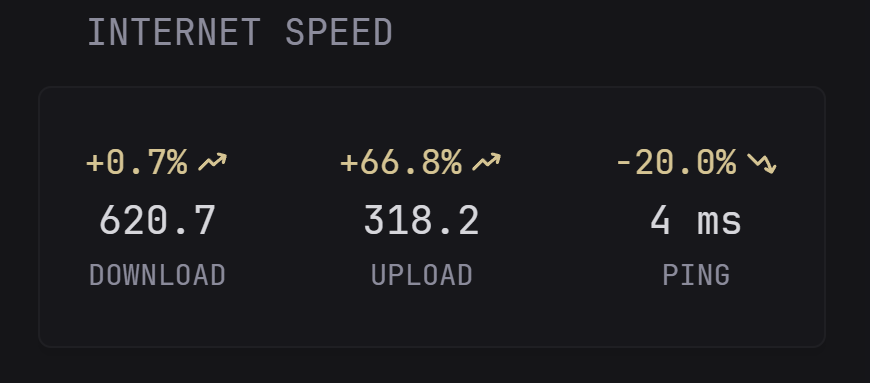
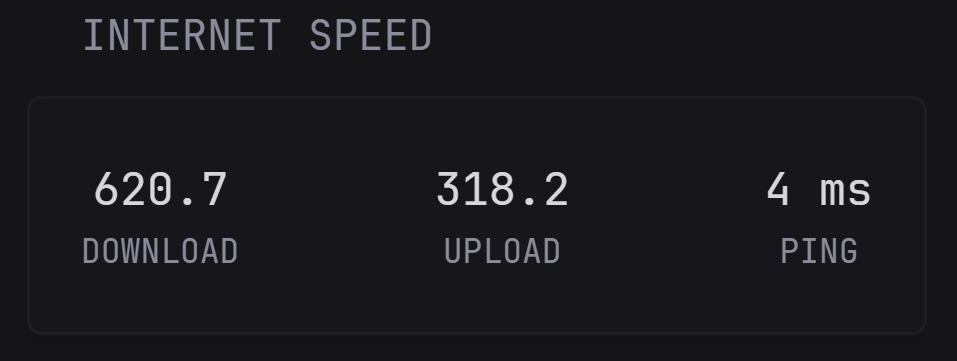
Add showUnit option to display Mbit/s and ms labels inline, add variant screenshots to README

diff --git a/README.md b/README.md
@@ -19,7 +19,7 @@
 </p>
 
 <p align="center">
-  <img src="docs/myspeed.png" alt="MySpeed widget preview" width="100%">
+  <img src="docs/myspeed_unit.png" alt="MySpeed widget preview" width="100%">
 </p>
 
 ---
@@ -61,9 +61,19 @@ Reference config: `examples/glance.yml`
 
 ### Speed (`widgets/myspeed.yml`)
 
+**Percentage + Units** (`showPercentageDiff: true`, `showUnit: true`)
 <p align="center">
-  <img src="docs/myspeed.png" alt="MySpeed widget preview" width="100%">
+  <img src="docs/myspeed_unit.png" alt="MySpeed widget with percentage diff and units" width="100%">
 </p>
+
+**Percentage only** (`showPercentageDiff: true`, `showUnit: false`)
+<p align="center">
+  <img src="docs/myspeed_percentage.png" alt="MySpeed widget with percentage diff only" width="100%">
+</p>
+
+**Clean** (`showPercentageDiff: false`, `showUnit: false`)
+<p align="center">
+  <img src="docs/myspeed.png" alt="MySpeed widget clean" width="100%">
 
 ```yaml
 - type: custom-api
@@ -79,6 +89,7 @@ Reference config: `examples/glance.yml`
         Accept: application/json
   options:
     showPercentageDiff: true
+    showUnit: false
   template: |
     ...
 ```
@@ -86,6 +97,7 @@ Reference config: `examples/glance.yml`
 | Option | Type | Default | Description |
 |---|---|---|---|
 | `showPercentageDiff` | bool | `true` | Show percentage difference from average |
+| `showUnit` | bool | `false` | Show "Mbit/s" and "ms" unit labels inline with values |
 
 ---
 
